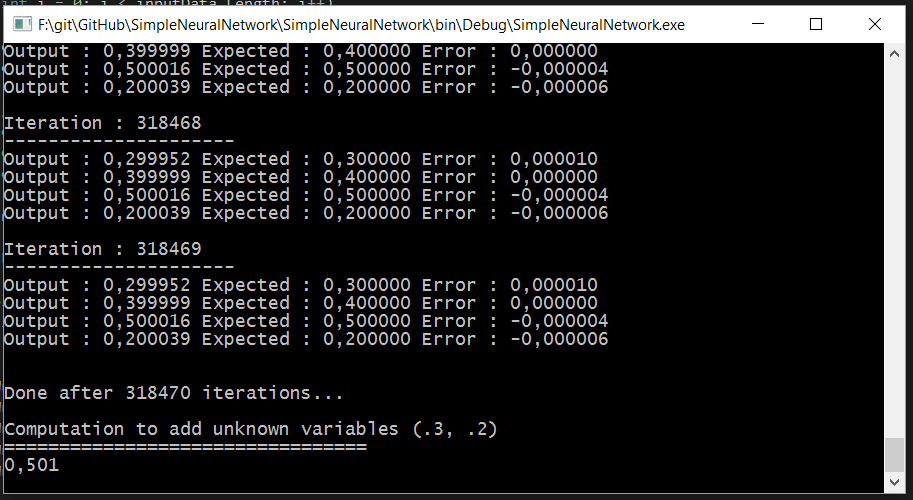
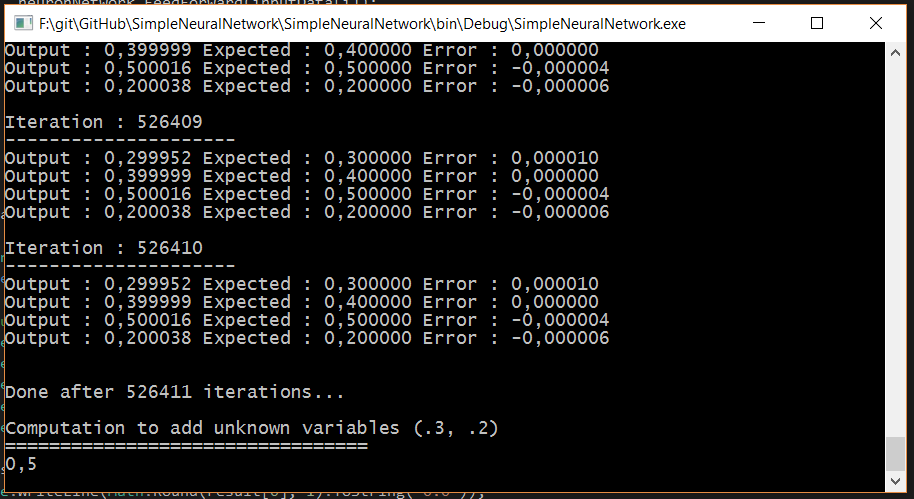
Round Result

diff --git a/SimpleNeuralNetwork/Program.cs b/SimpleNeuralNetwork/Program.cs
@@ -65,7 +65,7 @@ namespace SimpleNeuralNetwork
             Console.WriteLine("=================================");
 
             var result = neuronNetwork.Compute(new double[] { .3, .2 });
-            Console.WriteLine(result[0].ToString("0.000"));
+            Console.WriteLine(Math.Round(result[0], 1).ToString("0.0"));
             Console.ReadKey();
 
         }
